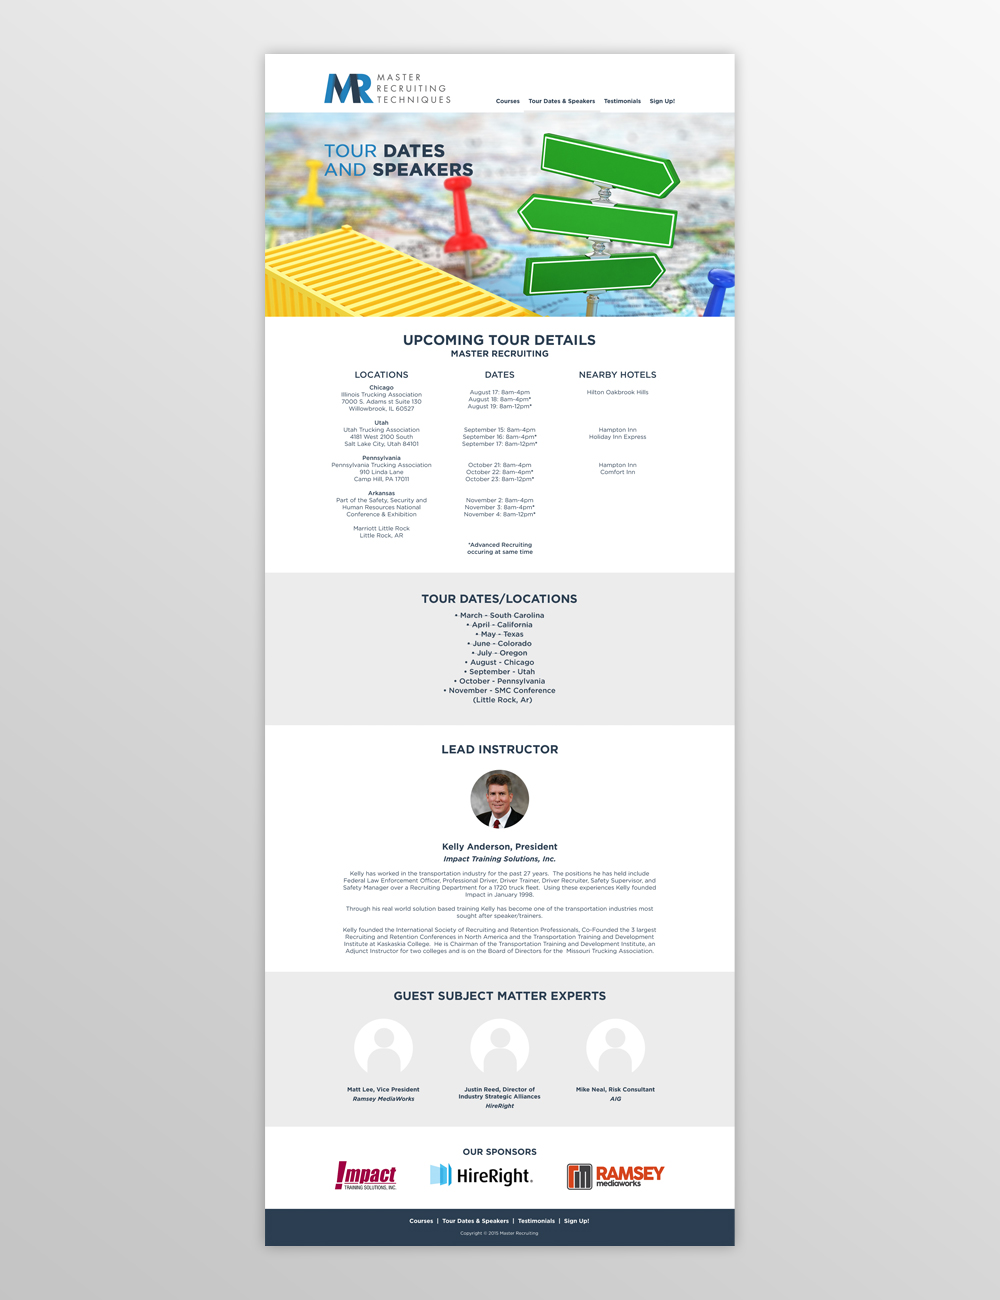
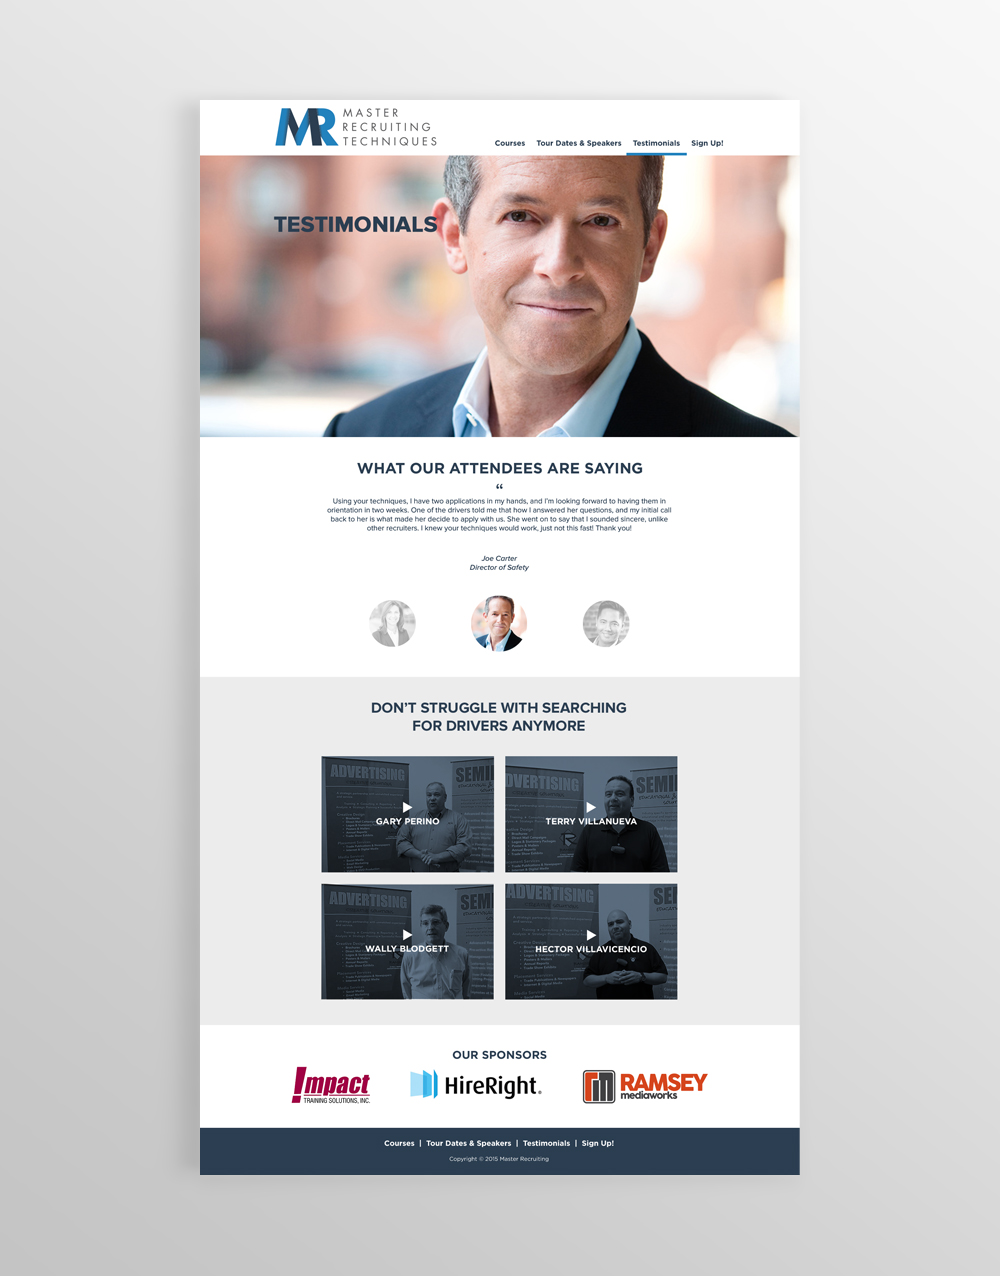
Update MRT Images

diff --git a/mrt.html b/mrt.html
@@ -32,13 +32,14 @@
 			  	<h2>Master Recruiting Techniques - Site Redesign</h2>
 			  	<p class="project-date">2015</p>
           <p class="project-content"><span>BACKGROUND</span>Master Recruiting Techniques is a 2-day workshop that tours around the US and is specifically designed to help recruiters in the trucking industry learn how to use conversational techniques to pre-qualify and recruit drivers all at the same time. These courses provide recruiters access to the most comprehensive and industry specific recruiter training available.</p>
-          <p class="project-content"><span>OBJECTIVE</span>As an intern at Ramsey Mediaworks, I was given the task of redesigning the MRT website, and proposing my design to the in-house web developer; who would then begin to implement the new design. The existing MRT website, where visitors would go to sign up for the workshop, used a single page layout. The information was featured on the single page was overwhelming and poorly organized. I restructured the layout of the site, achieving a better visual hierarchy, flow, and a clear call to action through modern UI design elements.</p>
+          <p class="project-content"><span>OBJECTIVE</span>As an intern at Ramsey Mediaworks, I was given the task of collaborating with the in-house web developer on a redesign concept for the Master Recruiting Techniques site. The existing MRT website, where visitors would go to sign up for the workshop, used a single page layout. There was an overwhelming amount of information on that single page, it was poorly organized, and there was no clear call to action. I restructured the layout of the site, adding multiple pages to achieve a better visual hierarchy, flow, and a clear call to action while incorporating modern UI design elements.</p>
 			  </div>
 			  <div class="small-9 columns">
 			  	<img src="Images/Design/mrt/mrt1.jpg">
           <img src="Images/Design/mrt/mrt2.jpg">
           <img src="Images/Design/mrt/mrt3.jpg">
           <img src="Images/Design/mrt/mrt4.jpg">
+          <img src="Images/Design/mrt/mrt5.jpg">
 			  </div>
 			</div>	
 			<div class="back"><a href="Design.html">&larr; Back To Work</a></div>		
